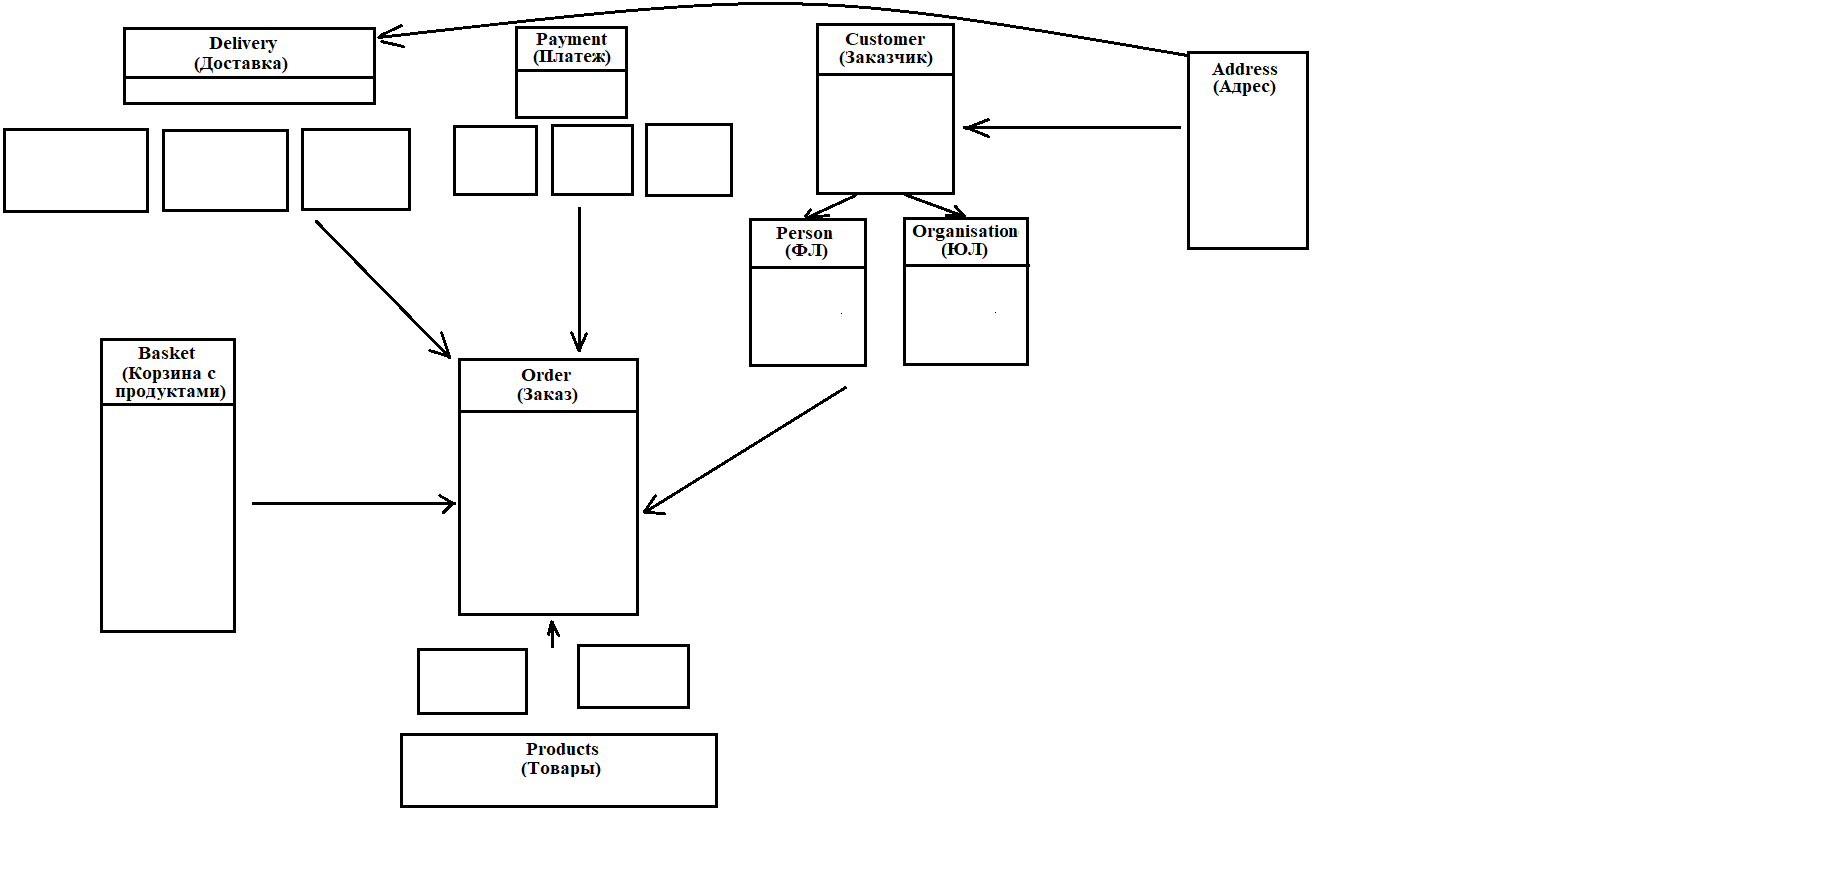
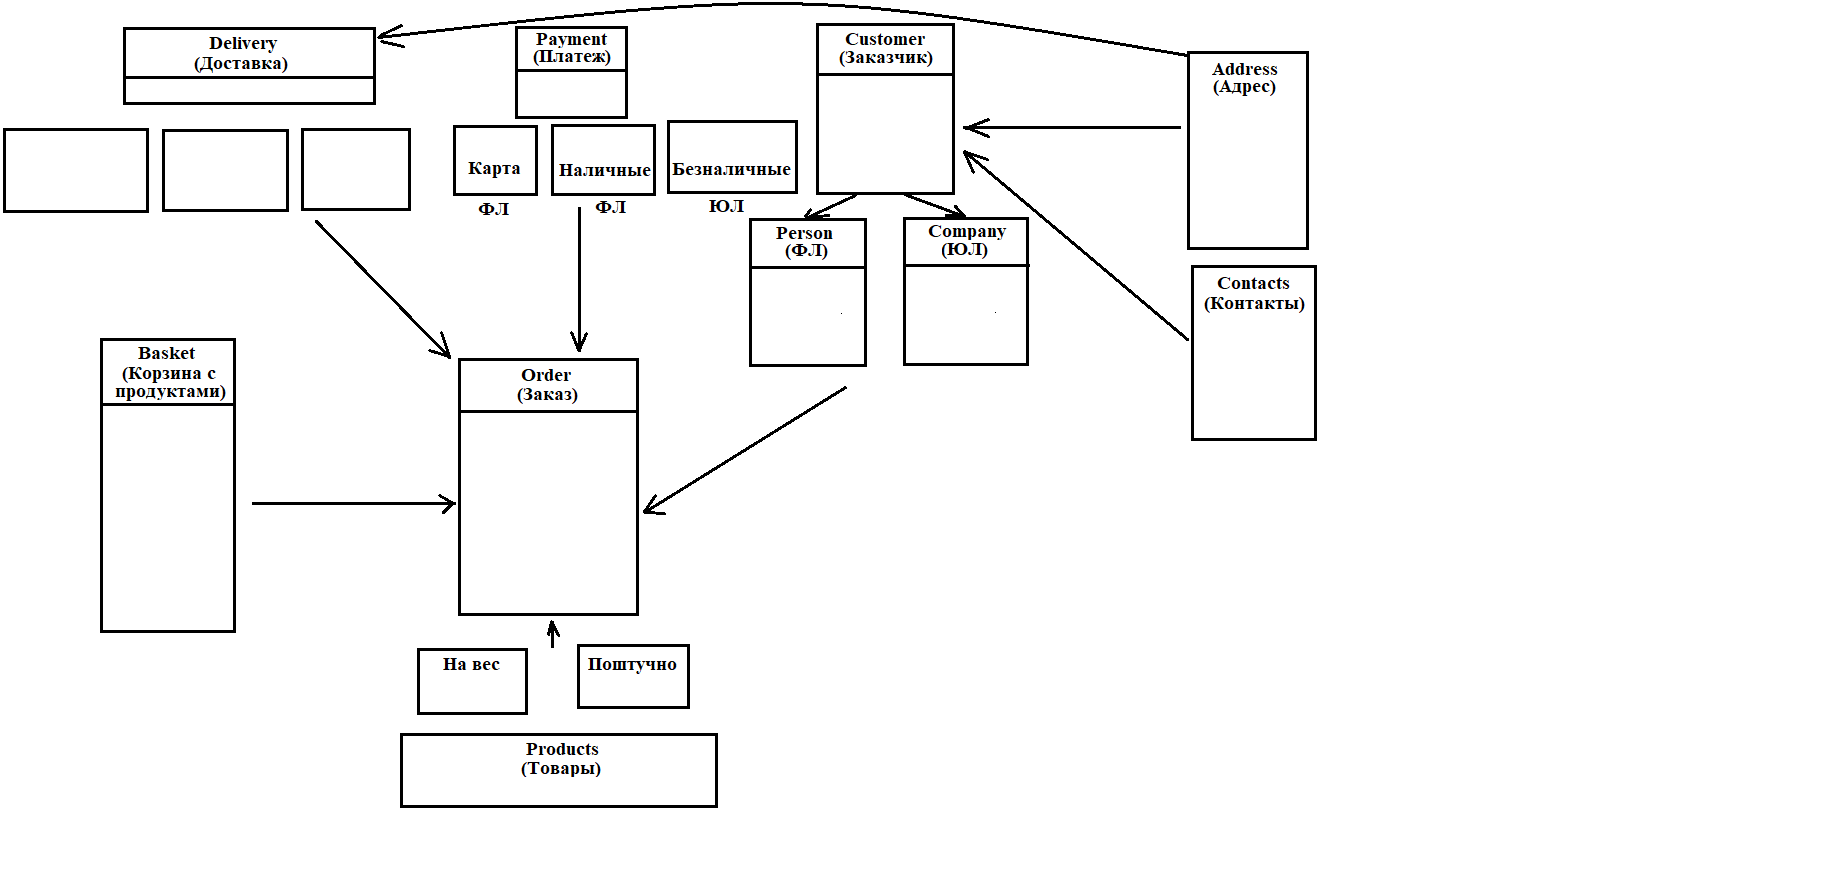
Добавлен класс Contacts(Контакты). Доработки в "диаграмме"

diff --git a/Module07/Contacts.cs b/Module07/Contacts.cs
@@ -1,0 +1,65 @@
+using System;
+using System.Collections.Generic;
+using System.Linq;
+using System.Text;
+using System.Threading.Tasks;
+
+namespace Module07
+{
+    class Contacts
+    {
+        string phone;
+        string email;
+        
+        /// <summary>
+        /// Свойство номер телефона
+        /// Корректный ввод - 71234567890
+        /// Без плюса, скобок и дефиса
+        /// </summary>
+        internal string Phone
+        {
+            get 
+            {
+                return phone; 
+            }
+            set
+            {
+                //@@@ Можно для проверки использовать регулярные выражения, но я их плохо понимаю на данный момент
+                if (value.Length == 11 && long.TryParse (value, out long result)) //@@@ можно добавить для защиты от спама совпадение кода страны с адресом заказчика
+                {
+                    //Форматируем до +7 (123) 456-78-90
+                    StringBuilder stringBuilder = new StringBuilder(value, 18);
+                    stringBuilder.Insert(0, "+");
+                    stringBuilder.Insert(2, " (");
+                    stringBuilder.Insert(7, ") ");
+                    stringBuilder.Insert(12, "-");
+                    stringBuilder.Insert(15, "-");
+                    phone = stringBuilder.ToString();
+                }
+                else
+                {
+                    throw new ArgumentException("Неправильный формат номера телефона", "phone");
+                }
+            }
+        }
+
+        internal string Email
+        {
+            get
+            {
+                return email;
+            }
+            set
+            {
+                if (string.IsNullOrWhiteSpace(value) != true && value.Contains("@") && value.Contains ("."))
+                {
+                    email = value;
+                }
+                else
+                {
+                    throw new ArgumentException("Неправильный формат адреса электронной почты", "email");
+                }
+            }
+        }
+    }
+}

diff --git a/Module07/Program.cs b/Module07/Program.cs
@@ -29,6 +29,19 @@ namespace Module07
             Console.WriteLine(address?.ZipCode);
             Console.WriteLine(address?.Display());
 
+            Contacts contacts = new Contacts();
+            try
+            {
+                contacts.Phone = "79161234567";
+                contacts.Email = "oleggmail.com";
+            }
+            catch (ArgumentException e)
+            {
+                Console.WriteLine(e.Message);
+            }
+
+            Console.WriteLine("Phone {0}, Email {1}", contacts?.Phone, contacts?.Email);
+
             Console.ReadKey();
         }
     }

diff --git a/Module07/Customer.cs b/Module07/Customer.cs
@@ -8,7 +8,8 @@ namespace Module07
 {
     abstract class Customer
     {
-
+        internal Address address;
+        internal Contacts contacts;
     }
 
     class Person : Customer 
@@ -16,7 +17,7 @@ namespace Module07
 
     }
 
-    class Organization : Customer 
+    class Company : Customer 
     {
 
     }
